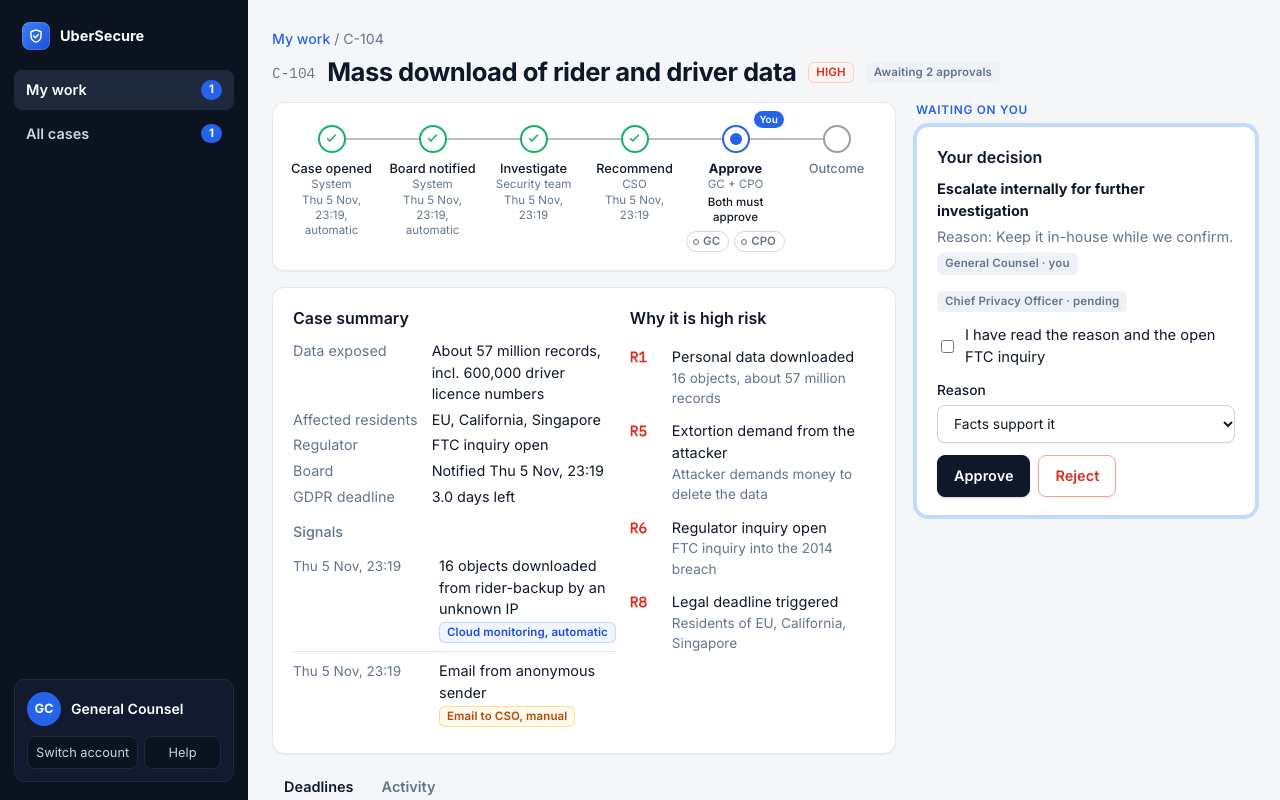
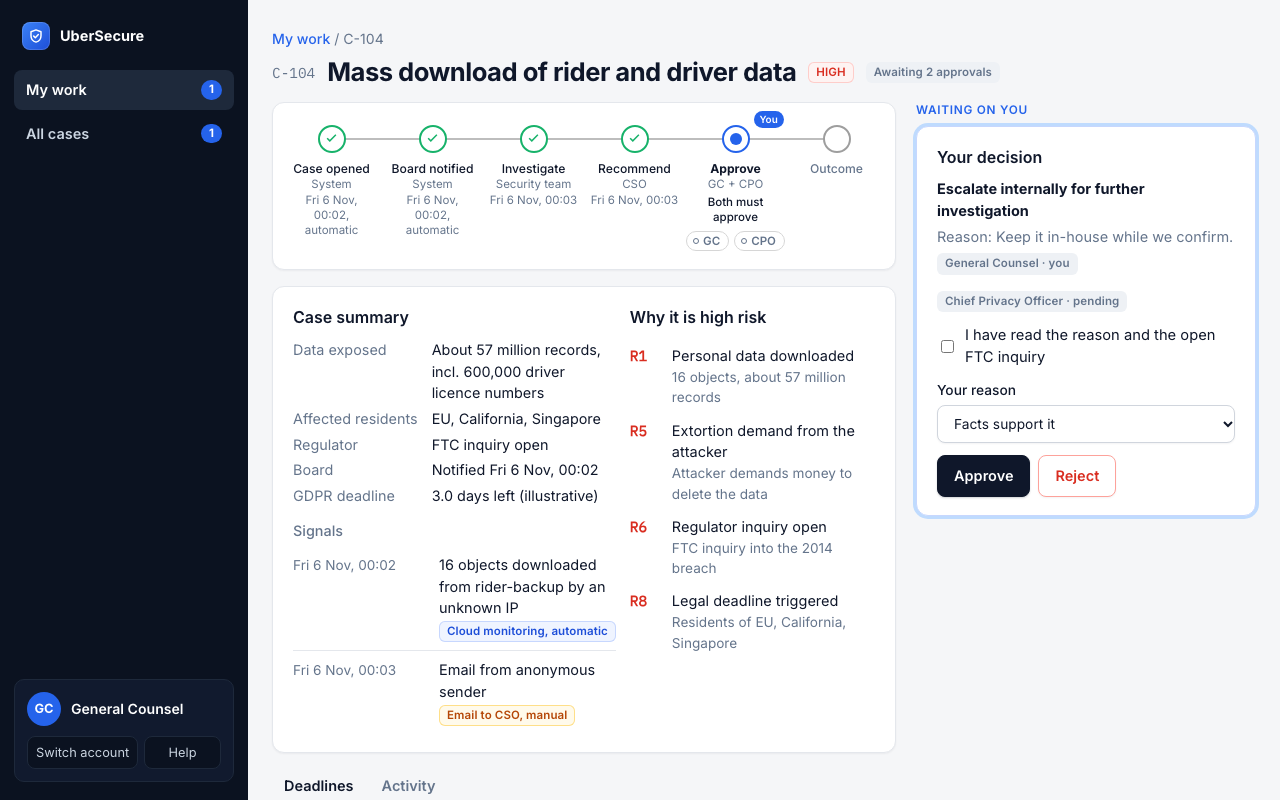
docs: P6 final fixes in DECISIONS and HANDOVER; retake p6 screenshots

diff --git a/docs/ai/DECISIONS.md b/docs/ai/DECISIONS.md
@@ -46,9 +46,18 @@ Hard-to-reverse decisions only. Seeded from spec §2 (26 Oct, Darius).
 | Names deferred | Real person names are not shown; roles and titles only, so no personal data and no per-person identity yet. |
 | Tour optional | The guided tour is opt-in from Sign in and Help; it starts on My work and resets to the role's own home. |
 | Avatar initials | Strip any "(...)", keep an all-capitals word whole (CSO, CEO), else first letters of two words, else the first letter. |
-| Nearest legal deadline | The tile excludes internal clocks (`class`, `mat`) and shows "<clock name> . <case id>". |
+| Nearest legal deadline | The tile excludes internal clocks (`class`, `mat`) and shows "<clock name> · <case id>". |
 | Counts equal rows | One filter per All-cases view feeds both the list and the sidebar count; Security shows all cases. |
 | Board Overview count | The Overview item shows the number of unacknowledged notices. |
 | Tour wording | Log step is "Every action, in order" (no tamper claim, see 5 Nov); "Demo complete" names the other ending from the replay case outcome. |
+| My work help per role | Help on My work explains that role's queue (GC/CPO decisions; Security and CSO cases). |
+| CSO My work line | "Security's finding is in" only once a finding exists; otherwise "Review the case and recommend". |
+| Vote line | A case with no recommendation yet shows "A decision is waiting for your vote." on GC/CPO My work. |
+| Breadcrumb source | The case breadcrumb is the sidebar item marked current. |
+| Outcome sentence | One `outcomeText()` for Board, CEO, Security and CSO: pending, rejected (names the approver and the decision), escalated, disclosed. |
+| Illustrative everywhere | Every legal clock time carries "(illustrative)": summary, Deadlines tab, Next deadline column, Board, notice text. Internal clocks do not. The Next deadline column now shows the nearest legal clock only. |
+| Keyboard case rows | The case id in each row is a real button; the row stays clickable for the mouse. |
+| Tour mode resets | Closing the tour ("End tour", or Close on Demo complete) returns to explore mode: Help explains the page, forms start empty. |
+| Empty-state hints | An empty My work says what will arrive and from whom, per role. |
 | Hash chain | Still dropped from the UI; **report/slides must explain the hash chain** (see 5 Nov). |
 

diff --git a/docs/ai/HANDOVER.md b/docs/ai/HANDOVER.md
@@ -1,6 +1,6 @@
 # Handover
 
-**State (5 Nov, latest):** the workspace redesign (P6) is done on local branch `feat/workspace-redesign` (not pushed, not merged). PR #18 is still open. The client app now has a sign-in screen (pick a role, no menu), a dark sidebar shell (My work, All cases, role pages; counts equal the rows shown), a two-column case page (progress tracker, summary, "Waiting on you" action card), and restyled Board, CEO and Employee pages. The tour starts on My work and Help has per-role text. Only `src/client/*`, `src/app/globals.css` and tests changed; server, API, migrations and rule packs are untouched. Phone width (375 px) has an e2e check (`tests/e2e/phone.spec.ts`). Screens: `docs/evidence/screens/p6-*.png`.
+**State (5 Nov, latest):** the workspace redesign (P6) is done on local branch `feat/workspace-redesign` (not pushed, not merged). PR #18 is still open. The client app now has a sign-in screen (pick a role, no menu), a dark sidebar shell (My work, All cases, role pages; counts equal the rows shown), a two-column case page (progress tracker, summary, "Waiting on you" action card), and restyled Board, CEO and Employee pages. The tour starts on My work and Help has per-role text. Changed: `src/client/*`, `src/app/globals.css`, `src/app/theme.css`, `src/app/additions.css`, `src/domain/roles.ts` (`home` and `short`; no server code reads them), `src/domain/plain-event.ts` (no double full stop) and tests; server, API, migrations and rule packs are untouched. Phone width (375 px) has an e2e check (`tests/e2e/phone.spec.ts`). Screens: `docs/evidence/screens/p6-*.png`.
 
 **Earlier state (5 Nov):** `main` still has the old app (login + Next pages + Darius's UX redesign, PR #17). Viviana's rebuild is on `viviana-dashboard1`, open as PR #18 (CI green, mergeable). These docs describe PR #18; this update sits on local branch `docs/viviana-update`, cut from her branch.
 
